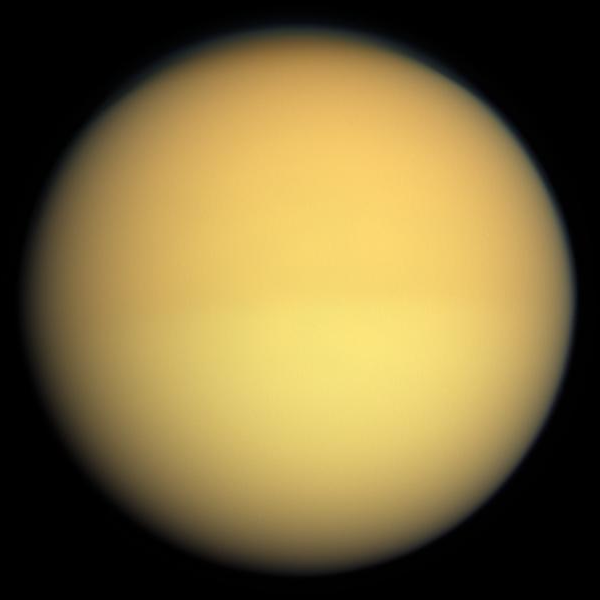
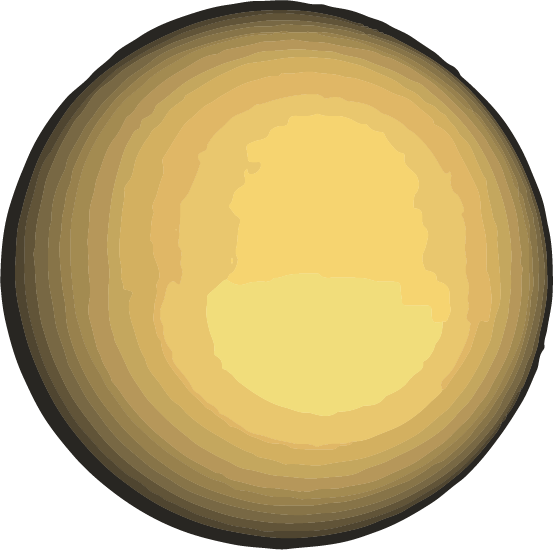
Updated img format to be vectorized png

diff --git a/Semana 3 - Planetas y Satélites/Neptuno.html b/Semana 3 - Planetas y Satélites/Neptuno.html
@@ -46,7 +46,7 @@
             <div class="row">
                 <div class="column landing-image">
                     <div class="column landing-image">
-                        <img class="" src="img/proteoNeptuno.jpg">
+                        <img class="" src="img/proteoNeptuno.png">
                     </div>
                     <div class="column landing-message">
                         <div class="text-container">
@@ -65,7 +65,7 @@
                 </div>
                 <div class="column landing-message">
                     <div class="column landing-image">
-                        <img class="" src="img/tritonNeptuno.jpg">
+                        <img class="" src="img/tritonNeptuno.png">
                     </div>
                     <div class="column landing-message">
                         <div class="text-container">

diff --git a/Semana 3 - Planetas y Satélites/Urano.html b/Semana 3 - Planetas y Satélites/Urano.html
@@ -46,7 +46,7 @@
             <div class="row">
                 <div class="column landing-image">
                     <div class="column landing-image">
-                        <img class="" src="img/oberonUrano.jpg">
+                        <img class="" src="img/oberonUrano.png">
                     </div>
                     <div class="column landing-message">
                         <div class="text-container">
@@ -63,7 +63,7 @@
                 </div>
                 <div class="column landing-message">
                     <div class="column landing-image">
-                        <img class="" src="img/mirandaUrano.jpg">
+                        <img class="" src="img/mirandaUrano.png">
                     </div>
                     <div class="column landing-message">
                         <div class="text-container">

diff --git a/Semana 3 - Planetas y Satélites/Jupiter.html b/Semana 3 - Planetas y Satélites/Jupiter.html
@@ -48,7 +48,7 @@
             <div class="row">
                 <div class="column landing-image">
                     <div class="column landing-image">
-                        <img class="" src="img/ioJupiter.jpg">
+                        <img class="" src="img/ioJupiter.png">
                     </div>
                     <div class="column landing-message">
                         <div class="text-container">
@@ -70,7 +70,7 @@
                 </div>
                 <div class="column landing-message">
                     <div class="column landing-image">
-                        <img class="" src="img/europaJupiter.jpg">
+                        <img class="" src="img/europaJupiter.png">
                     </div>
                     <div class="column landing-message">
                         <div class="text-container">

diff --git a/Semana 3 - Planetas y Satélites/Saturno.html b/Semana 3 - Planetas y Satélites/Saturno.html
@@ -50,7 +50,7 @@
             <div class="row">
                 <div class="column landing-image">
                     <div class="column landing-image">
-                        <img class="" src="img/tetisSaturno.jpg">
+                        <img class="" src="img/tetisSaturno.png">
                     </div>
                     <div class="column landing-message">
                         <div class="text-container">
